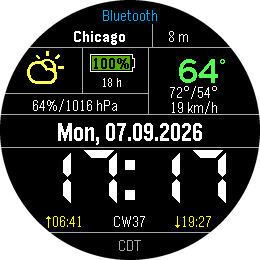
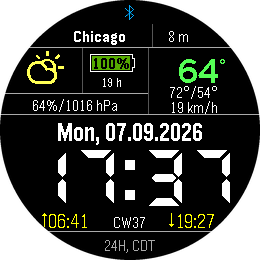
Gabbro: refined layout - even digit spacing, quieter grid, glyph, centred status
Same treatment as Emery, scoped by LAYOUT_REFINED_STATUS: two-tone grid
with the rule above the clock dropped, the drawn Bluetooth rune centred in
the top cap instead of the word, and Gothic 18 for the status row.

The clock stays at y=150 with 36x56 digits (the classic proportion), but
the spacing is evened out: 30/78/146/194 gives 12-11-11-12 gaps around
the colon on x=130.

Sunrise and sunset use Gothic 24, as on Emery; the row moved up 3px and
the footer rule down 1px so the larger glyphs stay inside the circle
(text spans x=48..215 where the chord at y=228 is 45..215) with the week
label or seconds centred between them.

The health group - icon, measured step count, trend arrow - is centred on
x=130 as one unit, so 8432 and 18432 both sit centred; timezone text is
centred by itself.

Verified across the same nine emulator states as Emery. Gabbro store
screenshots and the README round copies regenerated.

diff --git a/src/c/ui/layout.c b/src/c/ui/layout.c
@@ -92,7 +92,7 @@ static const int16_t s_sun_arrow_bottom_y = 224;
 // scalable digits. The bottom cap is ~100px wide at the timezone baseline and
 // the top cap ~85px where the Bluetooth label sits.
 //
-//   y   0- 22  Bluetooth, centred in the top cap
+//   y   0- 22  Bluetooth glyph, centred in the top cap
 //   y  24- 46  location | last update
 //   y  48-113  icon + humidity/pressure | battery | temp, hi/lo, wind
 //   y 114-146  date
@@ -110,13 +110,13 @@ static const GRect s_rects[LAYOUT_COUNT] = {
     [LAYOUT_WEATHER_STRING2]     = { .origin = {150, 95}, .size = {68, 22} },  // Wind
     [LAYOUT_WEATHER_STRING3]     = { .origin = {4, 93},   .size = {143, 22} }, // Humidity / pressure
     [LAYOUT_DATE]                = { .origin = {0, 113},  .size = {260, 32} },
-    [LAYOUT_CW]                  = { .origin = {100, 209},.size = {60, 22} },
+    [LAYOUT_CW]                  = { .origin = {100, 210},.size = {60, 22} },  // Baseline level with the Gothic 24 sun times
     [LAYOUT_BATTERY_TEXT]        = { .origin = {91, 51},  .size = {41, 22} },
     [LAYOUT_BATTERY_TIME]        = { .origin = {87, 73},  .size = {50, 20} },
     [LAYOUT_BATTERY_BOX]         = { .origin = {90, 54},  .size = {44, 18} },
-    [LAYOUT_CONNECTION]          = { .origin = {60, 3},   .size = {140, 22} },
-    [LAYOUT_SUNRISE]             = { .origin = {52, 209}, .size = {50, 22} },
-    [LAYOUT_SUNSET]              = { .origin = {162, 209},.size = {50, 22} },  // Right-aligned, mirrors the sunrise margin
+    [LAYOUT_CONNECTION]          = { .origin = {125, 5},  .size = {10, 16} },  // Drawn Bluetooth glyph, centred in the top cap
+    [LAYOUT_SUNRISE]             = { .origin = {48, 204}, .size = {58, 28} },  // Gothic 24; text 48..~102, arrow at 44
+    [LAYOUT_SUNSET]              = { .origin = {157, 204},.size = {58, 28} },  // Right-aligned, ends at 215 (chord at y=228 is 45..215)
     [LAYOUT_TIMEZONE]            = { .origin = {55, 233}, .size = {150, 22} },
     [LAYOUT_HEALTH_ICON]         = { .origin = {92, 237}, .size = {15, 14} },
     [LAYOUT_HEALTH_TEXT]         = { .origin = {111, 233},.size = {60, 22} },
@@ -126,12 +126,13 @@ static const GRect s_rects[LAYOUT_COUNT] = {
 };
 
 static const GRect s_digits[DIGIT_COUNT] = {
-    [DIGIT_H1] = { .origin = {35, 150},  .size = {36, 56} },
-    [DIGIT_H2] = { .origin = {81, 150},  .size = {36, 56} },
-    [DIGIT_M1] = { .origin = {144, 150}, .size = {36, 56} },
-    [DIGIT_M2] = { .origin = {190, 150}, .size = {36, 56} },
-    [DIGIT_S1] = { .origin = {114, 210}, .size = {14, 20} },  // Shares the CW slot
-    [DIGIT_S2] = { .origin = {133, 210}, .size = {14, 20} },
+    // 36x56 keeps the digit proportion; gaps 12 / 11 / 11 / 12 around the colon on x=130
+    [DIGIT_H1] = { .origin = {30, 150},  .size = {36, 56} },
+    [DIGIT_H2] = { .origin = {78, 150},  .size = {36, 56} },
+    [DIGIT_M1] = { .origin = {146, 150}, .size = {36, 56} },
+    [DIGIT_M2] = { .origin = {194, 150}, .size = {36, 56} },
+    [DIGIT_S1] = { .origin = {114, 209}, .size = {14, 20} },  // Shares the CW slot
+    [DIGIT_S2] = { .origin = {133, 209}, .size = {14, 20} },
 };
 
 static const int16_t s_lines[LINE_COUNT] = {
@@ -143,14 +144,14 @@ static const int16_t s_lines[LINE_COUNT] = {
     [LINE_WEATHER_Y]          = 93,   // Under icon + battery, above humidity/pressure
     [LINE_DATE_Y]             = 114,
     [LINE_TIME_TOP_Y]         = 147,
-    [LINE_FOOTER_Y]           = 232,
+    [LINE_FOOTER_Y]           = 231,
 };
 
 static const GRect s_batt_fill = { .origin = {92, 56}, .size = {0, 14} };
 
-static const int16_t s_sunrise_arrow_x = 48;
-static const int16_t s_sun_arrow_top_y = 216;
-static const int16_t s_sun_arrow_bottom_y = 227;
+static const int16_t s_sunrise_arrow_x = 44;
+static const int16_t s_sun_arrow_top_y = 213;
+static const int16_t s_sun_arrow_bottom_y = 226;
 
 #elif defined(PBL_ROUND)
 // ----------------------------------------------------------------------------

diff --git a/src/c/ui/layers/status_layer.c b/src/c/ui/layers/status_layer.c
@@ -45,7 +45,7 @@ struct StatusLayer {
 #define STATUS_SMALL_FONT FONT_KEY_GOTHIC_18
 // On Gabbro the timezone / health slot is in the bottom cap of the circle (~100px wide).
 #define STATUS_MEDIUM_FONT FONT_KEY_GOTHIC_18   // Supporting information under the clock
-#define STATUS_SUN_FONT PBL_IF_ROUND_ELSE(FONT_KEY_GOTHIC_18, FONT_KEY_GOTHIC_24)   // Sunrise / sunset times
+#define STATUS_SUN_FONT FONT_KEY_GOTHIC_24   // Sunrise / sunset times, same on Emery and Gabbro
 #elif defined(PBL_ROUND)
 // The timezone / health slot sits in the bottom cap of the circle, ~65px wide.
 #define STATUS_BATTERY_FONT FONT_KEY_GOTHIC_14
@@ -440,16 +440,27 @@ void status_layer_update(StatusLayer* sl) {
         }
         text_layer_set_text(sl->health_text_layer, sl->health_buf);
 #if defined(LAYOUT_REFINED_STATUS)
-        // Icon, value, arrow: the arrow follows the measured value so 8432 and
-        // 18432 both keep the same gap and never reach the calendar-week slot.
+        // Icon, value, arrow measured as one group so 8432 and 18432 both keep
+        // the same gaps. Emery anchors it on the left inset; Gabbro centres it
+        // in the bottom cap.
         {
             GRect text = layout_get_rect(LAYOUT_HEALTH_TEXT);
             GRect trend = layout_get_rect(LAYOUT_HEALTH_TREND);
             GSize size = graphics_text_layout_get_content_size(sl->health_buf, fonts_get_system_font(STATUS_MEDIUM_FONT),
                 GRect(0, 0, text.size.w, text.size.h), GTextOverflowModeTrailingEllipsis, GTextAlignmentLeft);
-            int16_t x = text.origin.x + size.w + 3;
+            const int16_t gap = 3;
+#if defined(PBL_ROUND)
+            GRect icon = layout_get_rect(LAYOUT_HEALTH_ICON);
+            int16_t total = icon.size.w + gap + size.w + gap + trend.size.w;
+            int16_t x0 = layer_get_bounds(sl->root_layer).size.w / 2 - total / 2;
+            layer_set_frame(bitmap_layer_get_layer(sl->health_icon_layer), GRect(x0, icon.origin.y, icon.size.w, icon.size.h));
+            layer_set_frame(text_layer_get_layer(sl->health_text_layer), GRect(x0 + icon.size.w + gap, text.origin.y, size.w + 2, text.size.h));
+            layer_set_frame(sl->health_trend_layer, GRect(x0 + icon.size.w + gap + size.w + gap, trend.origin.y, trend.size.w, trend.size.h));
+#else
+            int16_t x = text.origin.x + size.w + gap;
             if (x + trend.size.w > text.origin.x + text.size.w) x = text.origin.x + text.size.w - trend.size.w;
             layer_set_frame(sl->health_trend_layer, GRect(x, trend.origin.y, trend.size.w, trend.size.h));
+#endif
         }
 #endif
         layer_mark_dirty(sl->health_trend_layer);

diff --git a/src/c/ui/layout.h b/src/c/ui/layout.h
@@ -17,8 +17,9 @@
 // Emery's refined layout: a drawn Bluetooth glyph instead of the word, a
 // two-tone grid without the rule above the clock, the calendar week in a
 // fixed middle slot, and the health trend arrow placed after the measured
-// step count. (Gabbro follows in a later pass.)
-#if defined(PBL_PLATFORM_EMERY)
+// step count (Emery) or the whole health group centred as one measured
+// unit (Gabbro).
+#if defined(PBL_PLATFORM_EMERY) || defined(PBL_PLATFORM_GABBRO)
 #define LAYOUT_REFINED_STATUS 1
 #endif
 
